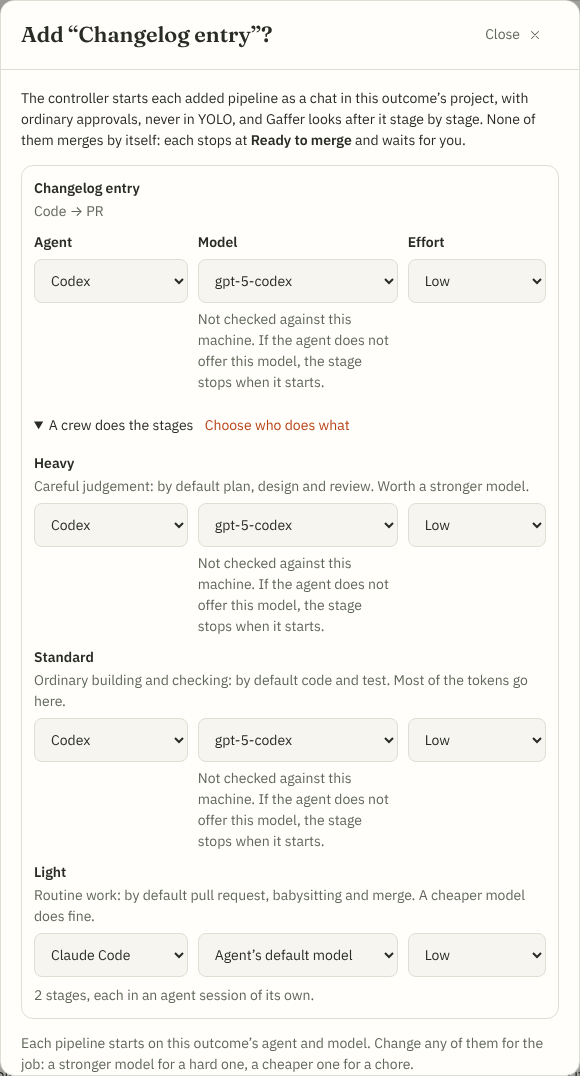
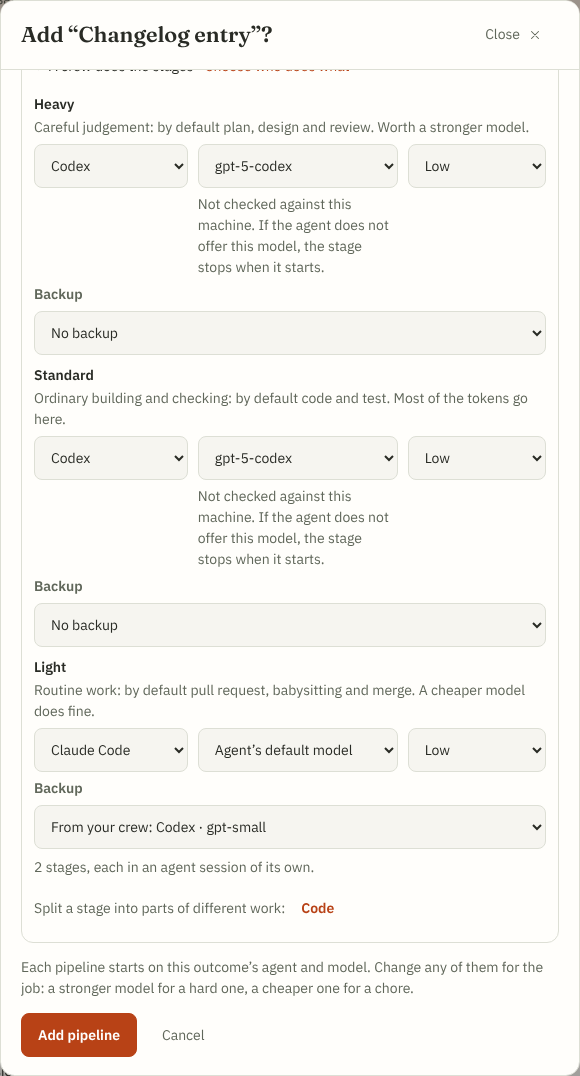
Factory: a backup choice in Add pipelines, a Cline source in the settings crew, a split stage sent back
In Add pipelines each tier now has a backup choice: the saved crew's
backups, none, or an agent, model and effort of that pipeline's own.
The crew in Gaffer settings takes the billing source a Cline tier or
backup starts on, as text, since settings has no machine to list them.

The Factory browser suite sends back a pipeline whose code stage is
split into two parts and checks the stage is offered once.

Claude-Session: https://claude.ai/code/session_011MNNzram3Xr2uZ9UFhX8yQ

diff --git a/web/src/lib/GafferCrewSettings.svelte b/web/src/lib/GafferCrewSettings.svelte
@@ -8,15 +8,14 @@
   import { chatToolName } from './terminal/api'
 
   const AGENTS = ['claude', 'codex', 'opencode', 'cline', 'antigravity']
-  type Row = { tool: string; model: string; effort: string }
+  // `source` is the billing source a Cline row starts on; empty is Cline's own.
+  type Row = { tool: string; model: string; effort: string; source?: string }
   type Tier = 'heavy' | 'standard' | 'light'
   const blank = (): Row => ({ tool: '', model: '', effort: '' })
   let first = $state<Record<Tier, Row>>({ heavy: blank(), standard: blank(), light: blank() })
   let spare = $state<Record<Tier, Row>>({ heavy: blank(), standard: blank(), light: blank() })
   // Further backups of a tier, tried in order after the first.
   let others = $state<Record<Tier, Row[]>>({ heavy: [], standard: [], light: [] })
-  // A Cline tier's billing source is chosen on a machine, in the outcome dialog; it is kept as it was saved.
-  let sources: Partial<Record<Tier, string>> = {}
   let below = $state<number | string>(BALANCE_LOW_PERCENT), decides = $state(false)
   let loading = $state(true), busy = $state(false), error = $state(''), notice = $state(''), savedAt = $state(0)
   const formId = $props.id()
@@ -24,10 +23,9 @@
   function show(crew: GafferCrew) {
     for (const item of CREW_TIERS) {
       const member: GafferCrewTier = crew[item.tier] ?? {}
-      first[item.tier] = { tool: member.tool ?? '', model: member.model ?? '', effort: member.effort ?? '' }
-      spare[item.tier] = { tool: member.backup?.tool ?? '', model: member.backup?.model ?? '', effort: member.backup?.effort ?? '' }
-      others[item.tier] = (member.moreBackups ?? []).map(one => ({ tool: one.tool, model: one.model ?? '', effort: one.effort ?? '' }))
-      sources[item.tier] = member.provider
+      first[item.tier] = { tool: member.tool ?? '', model: member.model ?? '', effort: member.effort ?? '', source: member.provider ?? '' }
+      spare[item.tier] = { tool: member.backup?.tool ?? '', model: member.backup?.model ?? '', effort: member.backup?.effort ?? '', source: member.backup?.provider ?? '' }
+      others[item.tier] = (member.moreBackups ?? []).map(one => ({ tool: one.tool, model: one.model ?? '', effort: one.effort ?? '', source: one.provider ?? '' }))
     }
     below = balancePercent(crew.balanceBelow); decides = !!crew.gafferDecides; savedAt = crew.updatedAt ?? 0
   }
@@ -35,10 +33,12 @@
     try { show((await getGafferCrew()).crew) } catch (e) { error = e instanceof Error ? e.message : 'Your crew could not be read.' }
     loading = false
   })
+  // A row as it is saved: a Cline row carries its billing source when one was typed.
+  const sent = (one: Row) => ({ tool: one.tool, model: one.model.trim(), effort: one.effort.trim(), ...(one.tool === 'cline' && one.source?.trim() ? { provider: one.source.trim() } : {}) })
   const tier = (name: Tier): GafferCrewTier => {
-    const one = first[name], two = spare[name]
+    const one = first[name], two = spare[name], rest = others[name].filter(row => row.tool)
     if (!one.tool) return {}
-    return { tool: one.tool, model: one.model.trim(), effort: one.effort.trim(), ...(one.tool === 'cline' && sources[name] ? { provider: sources[name] } : {}), ...(two.tool ? { backup: { tool: two.tool, model: two.model.trim(), effort: two.effort.trim() }, ...(others[name].some(one => one.tool) ? { moreBackups: others[name].filter(one => one.tool).map(one => ({ tool: one.tool, model: one.model.trim(), effort: one.effort.trim() })) } : {}) } : {}) }
+    return { ...sent(one), ...(two.tool ? { backup: sent(two), ...(rest.length ? { moreBackups: rest.map(sent) } : {}) } : {}) }
   }
   async function save() {
     if (busy) return
@@ -65,16 +65,19 @@
         {#if first[item.tier].tool}
           <input aria-label={`${item.label} model`} placeholder="Agent’s default model" bind:value={first[item.tier].model} disabled={busy} maxlength="200" autocapitalize="off" spellcheck="false"/>
           <input aria-label={`${item.label} effort`} placeholder="Default effort" bind:value={first[item.tier].effort} disabled={busy} maxlength="40" autocapitalize="off" spellcheck="false"/>
+          {#if first[item.tier].tool === 'cline'}<input class="source" aria-label={`${item.label} Cline billing source`} placeholder="Cline’s own billing source" bind:value={first[item.tier].source} disabled={busy} maxlength="80" autocapitalize="off" spellcheck="false"/>{/if}
           <span class="slot">Backup</span>
           <select aria-label={`${item.label} backup agent`} bind:value={spare[item.tier].tool} disabled={busy} onchange={() => { if (!spare[item.tier].tool) { spare[item.tier] = blank(); others[item.tier] = [] } }}><option value="">No backup</option>{#each AGENTS as id (id)}<option value={id}>{chatToolName(id)}</option>{/each}</select>
           {#if spare[item.tier].tool}
             <input aria-label={`${item.label} backup model`} placeholder="Agent’s default model" bind:value={spare[item.tier].model} disabled={busy} maxlength="200" autocapitalize="off" spellcheck="false"/>
             <input aria-label={`${item.label} backup effort`} placeholder="Default effort" bind:value={spare[item.tier].effort} disabled={busy} maxlength="40" autocapitalize="off" spellcheck="false"/>
+            {#if spare[item.tier].tool === 'cline'}<input class="source" aria-label={`${item.label} backup Cline billing source`} placeholder="Cline’s own billing source" bind:value={spare[item.tier].source} disabled={busy} maxlength="80" autocapitalize="off" spellcheck="false"/>{/if}
             {#each others[item.tier] as extra, n (n)}
               <span class="slot">Then</span>
               <select aria-label={`${item.label} backup ${n + 2} agent`} bind:value={extra.tool} disabled={busy} onchange={() => { if (!extra.tool) others[item.tier] = others[item.tier].filter((_, at) => at !== n) }}><option value="">Remove this backup</option>{#each AGENTS as id (id)}<option value={id}>{chatToolName(id)}</option>{/each}</select>
               <input aria-label={`${item.label} backup ${n + 2} model`} placeholder="Agent’s default model" bind:value={extra.model} disabled={busy} maxlength="200" autocapitalize="off" spellcheck="false"/>
               <input aria-label={`${item.label} backup ${n + 2} effort`} placeholder="Default effort" bind:value={extra.effort} disabled={busy} maxlength="40" autocapitalize="off" spellcheck="false"/>
+              {#if extra.tool === 'cline'}<input class="source" aria-label={`${item.label} backup ${n + 2} Cline billing source`} placeholder="Cline’s own billing source" bind:value={extra.source} disabled={busy} maxlength="80" autocapitalize="off" spellcheck="false"/>{/if}
             {/each}
             {#if others[item.tier].length < MAX_BACKUPS - 1}<button class="link more" type="button" disabled={busy} aria-label={`Add another backup for ${item.label}`} onclick={() => others[item.tier] = [...others[item.tier], { tool: AGENTS.find(id => id !== spare[item.tier].tool) ?? AGENTS[0], model: '', effort: '' }]}>Add another backup</button>{/if}
           {:else}<span class="none">Stages stay on the first choice.</span>{/if}
@@ -104,12 +107,12 @@
   .tiers{display:grid;gap:0}.tier{display:grid;grid-template-columns:6rem minmax(0,1fr) minmax(0,1.25fr) minmax(0,1fr);gap:8px 10px;align-items:start;padding:12px 0;border-top:1px solid var(--line)}.tier:first-child{border-top:0;padding-top:0}
   .tier-head{grid-column:1/-1;display:flex;flex-wrap:wrap;align-items:baseline;gap:2px 10px}.tier-head span{color:var(--muted);font-size:.875rem}
   .slot{line-height:44px;font-size:.875rem;font-weight:600;color:var(--muted)}.none{grid-column:3/-1;line-height:44px;font-size:.875rem;color:var(--muted)}
-  select,input{width:100%;min-width:0;min-height:44px;font:inherit}
+  select,input{width:100%;min-width:0;min-height:44px;font:inherit}.source{grid-column:2/-1}
   .link{border:0;background:none;padding:0;font:inherit;font-size:.875rem;font-weight:600;color:var(--accent-text);cursor:pointer;min-height:44px}.link:hover{text-decoration:underline}.more{grid-column:2/-1;justify-self:start}
   .row{display:grid;grid-template-columns:minmax(0,auto) minmax(0,1fr);align-items:center;gap:6px 12px;margin:0;padding:12px 0 0;border:0;border-top:1px solid var(--line);min-width:0}.row label,.who-name{font-weight:600}.who{grid-template-columns:1fr}
   .percent{display:flex;flex-wrap:wrap;align-items:center;gap:6px 10px}.percent input{width:5.5rem;text-align:right;font-variant-numeric:tabular-nums}
   .choice{display:inline-flex;justify-self:start;border:1px solid var(--line);border-radius:10px;overflow:hidden}.choice label{display:flex;align-items:center;gap:8px;min-height:44px;padding:0 16px;font-weight:600;cursor:pointer;color:var(--muted)}.choice label+label{border-left:1px solid var(--line)}.choice label.on{color:var(--ink);background:var(--tint)}.choice input{width:auto;min-height:0;accent-color:var(--accent)}
   .feedback{margin:0;padding:8px 12px;border-radius:8px;border:1px solid var(--line)}.feedback.bad{border-color:var(--bad);color:var(--bad)}
   .actions{display:flex;flex-wrap:wrap;align-items:center;gap:8px 14px;color:var(--muted);font-size:.875rem}
-  @media(max-width:560px){.tier{grid-template-columns:1fr}.more{grid-column:1/-1}.slot{line-height:1.4;margin-top:4px}.none{grid-column:1/-1;line-height:1.5}.row{grid-template-columns:1fr}}
+  @media(max-width:560px){.tier{grid-template-columns:1fr}.more,.source{grid-column:1/-1}.slot{line-height:1.4;margin-top:4px}.none{grid-column:1/-1;line-height:1.5}.row{grid-template-columns:1fr}}
 </style>

diff --git a/web/src/lib/factory/AddPipelines.svelte b/web/src/lib/factory/AddPipelines.svelte
@@ -37,10 +37,14 @@
   // Each tier's backup comes from the person's saved crew, for the agents this machine can run: an added pipeline is
   // balanced across plans like the outcome's own. It is changed where the crew is, in Gaffer settings.
   let spares = $state<Partial<Record<keyof Crew, CrewSpare[]>>>({})
-  // The crew's backups can be left off a pipeline's tier here: ticked is used, unticked is not.
-  let noSpare = $state<Record<string, boolean>>({})
+  // What backs a pipeline's tier up here: the saved crew's backups ('crew', where there are any), none (''), or an
+  // agent of the person's own choosing for this pipeline, with its model and effort.
+  let picked = $state<Record<string, { tool: string; model: string; effort: string }>>({})
   const crewSpares = (tier: keyof Crew) => (spares[tier] ?? []).filter(one => tools.includes(one.tool))
-  const spare = (title: string, tier: keyof Crew) => noSpare[`${title}\n${tier}`] ? [] : crewSpares(tier)
+  const spareKey = (title: string, tier: keyof Crew) => `${title}\n${tier}`
+  const spareChoice = (title: string, tier: keyof Crew) => picked[spareKey(title, tier)]?.tool ?? (crewSpares(tier).length ? 'crew' : '')
+  const spare = (title: string, tier: keyof Crew): CrewSpare[] => { const own = picked[spareKey(title, tier)]; return !own ? crewSpares(tier) : own.tool && own.tool !== 'crew' ? [own] : own.tool === 'crew' ? crewSpares(tier) : [] }
+  const pickSpare = (title: string, tier: keyof Crew, next: Partial<{ tool: string; model: string; effort: string }>) => { const key = spareKey(title, tier); picked[key] = { ...(picked[key] ?? { tool: spareChoice(title, tier), model: '', effort: '' }), ...next } }
   const withSpares = (title: string, tier: keyof Crew, member: Crew[keyof Crew]) => { const list = spare(title, tier); return { ...member, backup: list[0], more: list.slice(1) } }
   const crewSent = (title: string): Crew => { const crew = crewOf(title); return { heavy: withSpares(title, 'heavy', crew.heavy), standard: withSpares(title, 'standard', crew.standard), light: withSpares(title, 'light', crew.light) } }
   // A stage of an added pipeline can be split into parts, as in a new outcome.
@@ -121,7 +125,19 @@
               <select aria-label={`${part.label} agent for ${item.title}`} value={role.tool} disabled={busy} onchange={event => setRole(item.title, part.tier, { tool: event.currentTarget.value, model: '', effort: '' })}>{#each tools as id (id)}<option value={id}>{chatToolName(id)}</option>{/each}</select>
               <GafferModelSelect label={`${part.label} model for ${item.title}`} tool={role.tool} value={role.model} machine={offered[role.tool] ?? null} {favourites} host={machine?.host ?? ''} disabled={busy} onchange={next => setRole(item.title, part.tier, { model: next })}/>
               <select aria-label={`${part.label} effort for ${item.title}`} value={role.effort ?? ''} disabled={busy || efforts(role.tool).length < 2} onchange={event => setRole(item.title, part.tier, { effort: event.currentTarget.value })}>{#each efforts(role.tool) as level (level)}<option value={level}>{effortLabel(role.tool, level)}</option>{/each}</select>
-              {#if crewSpares(part.tier).length}<label class="crew-spare"><input type="checkbox" checked={!noSpare[`${item.title}\n${part.tier}`]} disabled={busy} onchange={event => noSpare[`${item.title}\n${part.tier}`] = !event.currentTarget.checked}/><span>Backup from your crew: {crewSpares(part.tier).map(spareWords).join(', then ')}</span></label>{/if}
+              {#if true}{@const chosen = spareChoice(item.title, part.tier)}{@const own = picked[spareKey(item.title, part.tier)]}
+              <div class="crew-spare" role="group" aria-label={`${part.label} backup for ${item.title}`}>
+                <span class="spare-name">Backup</span>
+                <select aria-label={`${part.label} backup agent for ${item.title}`} value={chosen} disabled={busy} onchange={event => pickSpare(item.title, part.tier, { tool: event.currentTarget.value, model: '', effort: '' })}>
+                  {#if crewSpares(part.tier).length}<option value="crew">From your crew: {crewSpares(part.tier).map(spareWords).join(', then ')}</option>{/if}
+                  <option value="">No backup</option>
+                  {#each tools as id (id)}<option value={id}>{chatToolName(id)}</option>{/each}
+                </select>
+                {#if own && chosen && chosen !== 'crew'}
+                  <GafferModelSelect label={`${part.label} backup model for ${item.title}`} tool={chosen} value={own.model} machine={offered[chosen] ?? null} {favourites} host={machine?.host ?? ''} disabled={busy} onchange={next => pickSpare(item.title, part.tier, { model: next })}/>
+                  <select aria-label={`${part.label} backup effort for ${item.title}`} value={own.effort} disabled={busy || efforts(chosen).length < 2} onchange={event => pickSpare(item.title, part.tier, { effort: event.currentTarget.value })}>{#each efforts(chosen) as level (level)}<option value={level}>{effortLabel(chosen, level)}</option>{/each}</select>
+                {/if}
+              </div>{/if}
             </div>{/each}
           </div>
           <p class="hint">{kinds(item).length} {kinds(item).length === 1 ? 'stage' : 'stages'}, each in an agent session of its own.</p>
@@ -151,7 +167,7 @@
   .who{display:grid;grid-template-columns:1fr 1.3fr .9fr;gap:10px;align-items:start}label{font-weight:600;display:grid;gap:6px;min-width:0}
   select{font:inherit;font-weight:400;color:var(--ink);background:var(--bg);border:1px solid var(--line);border-radius:8px;padding:10px 12px;min-width:0;width:100%;min-height:44px;box-sizing:border-box}
   .crew summary{min-height:44px;display:list-item;align-content:center;cursor:pointer}.crew summary span{color:var(--accent-text);margin-left:8px}
-  .crew-spare{grid-column:1/-1;margin:0;display:flex;align-items:center;gap:8px;min-height:44px;font-size:0.875rem;color:var(--muted);cursor:pointer}.crew-spare input{accent-color:var(--accent)}
+  .crew-spare{grid-column:1/-1;display:grid;grid-template-columns:subgrid;gap:6px 10px;align-items:start}.spare-name{grid-column:1/-1;font-size:0.875rem;font-weight:600;color:var(--muted)}.crew-spare select{min-width:0;width:100%}.crew-spare>select:last-child{grid-column:1/-1}
   .splits{display:grid;gap:8px;margin:8px 0 0}.split-offer{display:flex;flex-wrap:wrap;gap:4px 14px;align-items:center;font-size:0.875rem;color:var(--muted)}.split-offer button{min-height:44px;border:0;background:none;padding:0 2px;font:inherit;font-weight:600;color:var(--accent-text);cursor:pointer}.split-offer button:hover{text-decoration:underline}
   .crew-rows{display:grid;gap:10px;padding:6px 0 8px}.crew-row{display:grid;grid-template-columns:1fr 1.3fr .9fr;gap:6px 10px;align-items:start}.crew-role{grid-column:1/-1;display:flex;flex-wrap:wrap;align-items:baseline;gap:2px 8px;min-width:0}.crew-role span{font-size:0.875rem;color:var(--muted)}
   summary:focus-visible{outline:2px solid var(--accent);outline-offset:2px}

diff --git a/docs/gaffer-ai.md b/docs/gaffer-ai.md
@@ -620,8 +620,9 @@ project, choose Gaffer's model. Each step links to where it is done and ticks of
    remove it, add one (up to four), or choose **Do as one stage** to undo the
    split. **Split into parts** on a stage splits it by hand; every part then
    needs a name and a brief before the plan can be approved. The Add
-   pipelines dialog offers the same split, and lets you leave a tier's saved
-   backups off a pipeline. Every stage runs in an agent session of its
+   pipelines dialog offers the same split. Each tier there has a **Backup**
+   choice: your saved crew's backups, none, or an agent, model and effort of
+   that pipeline's own. Every stage runs in an agent session of its
    own, in the pipeline's folder and branch: it starts from that stage's
    instruction and the handover of the stage before, and the earlier stage's
    session is ended with its history kept.
@@ -659,7 +660,8 @@ be changed when you approve one. The default for who decides only sets where
 the dialog starts: an outcome started any other way, such as over MCP, is
 never given to Gaffer by it. Model and effort are typed there, because no one
 machine is in view to list them; the outcome dialog checks them against the
-project's machine.
+project's machine. A Cline tier or backup there has a field for the billing
+source it starts on; left empty, Cline uses its own.
 
 **Account → Gaffer AI → How Gaffer works** has two choices:
 

diff --git a/handoff.md b/handoff.md
@@ -33,8 +33,10 @@ stops" for a stage whose plan runs low while it is running.
   `RetryPipeline` when `balanceStage` now says a backup. `Rebalanced` makes it once for a stage. A working agent is
   never ended for this.
 - **Add pipelines:** a tier's saved backups can be unticked for a pipeline; a stage can be split.
-- **Not done:** parts running at the same time (the owner chose one after another). Choosing different backups in Add
-  pipelines than the saved crew's. Checked with fakes and synthetic plan figures only.
+- **Afterwards:** Add pipelines has a backup choice for each tier (the crew's, none, or its own agent); the crew in
+  settings takes a Cline billing source as text; `gaffer-factory.e2e.mjs` sends a split stage back.
+- **Not done:** parts running at the same time (the owner chose one after another). Checked with fakes and
+  synthetic plan figures only.
 
 ## FACTORY-PARTS-1: a stage split into parts, and what earlier slices left (16 November 2026)
 

diff --git a/CHANGELOG.md b/CHANGELOG.md
@@ -5,6 +5,10 @@ this file existed releases were described on their GitHub release pages.
 
 ## Unreleased
 
+- Factory: in Add pipelines each tier's backup can be your crew's, none, or
+  one of that pipeline's own. The crew in Gaffer settings takes a billing
+  source for a Cline tier or backup.
+
 - Factory: a stage can be split into parts by hand, and a part added, in the
   outcome dialog and in Add pipelines; an MCP client can split a stage too.
 - Factory: a tier can have up to three backups, tried in order, and a Cline
